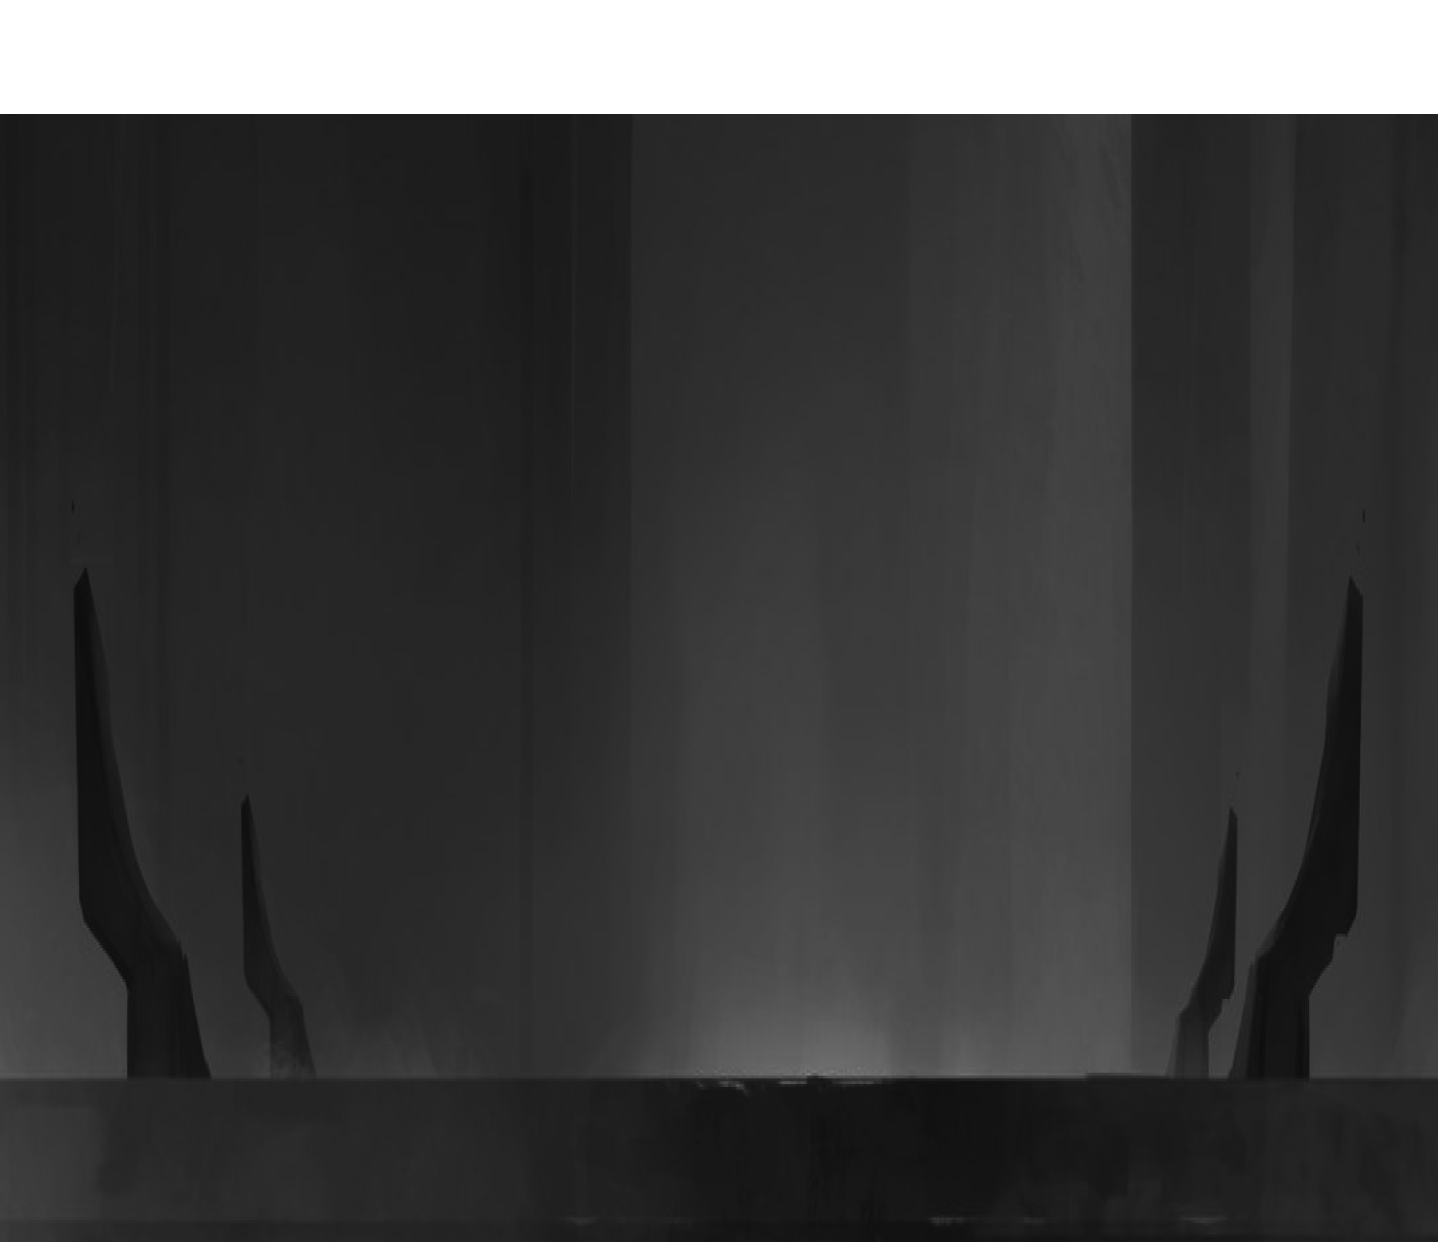
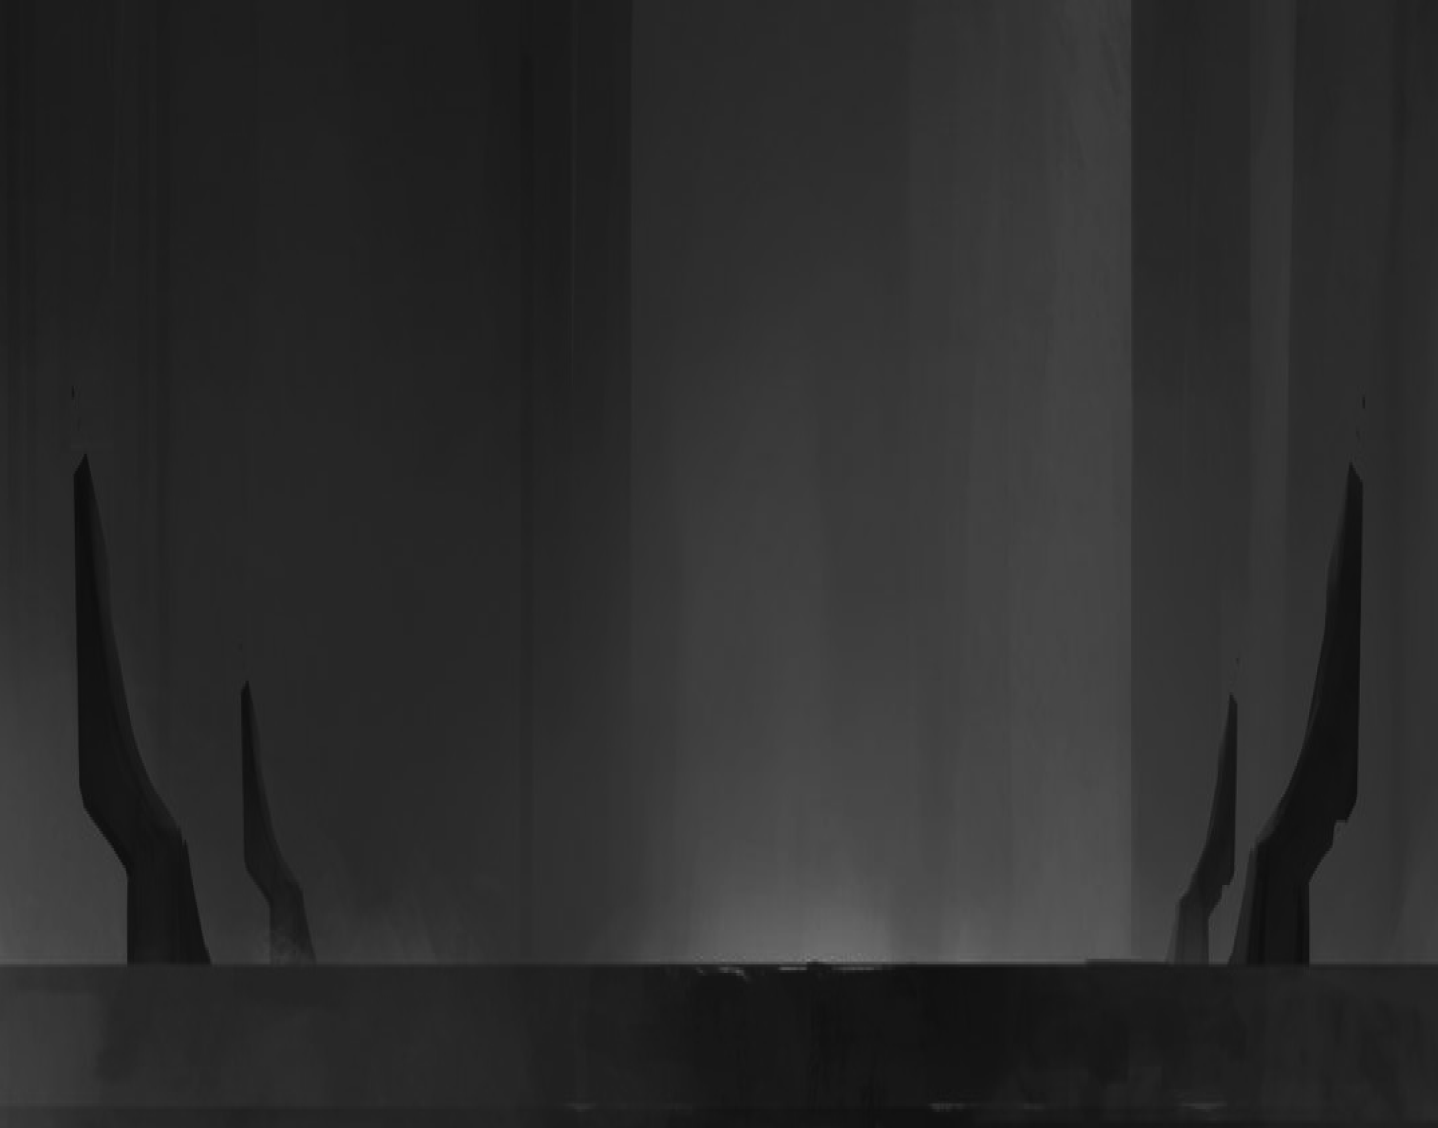
feat(team): team bg bug fixed & card type edited

diff --git a/src/components/teamPage/Team.tsx b/src/components/teamPage/Team.tsx
@@ -3,9 +3,14 @@ import Image from "next/image";
 const Team:React.FC = () => {
 
     return(
-        <div className="w-full h-full relative">
-            <Image className="" src={'/media/team/team-bg.png'} width="1438" height="1242" layout="responsive" />
-            <div className="relative w-full h-full  flex flex-col justify-start items-center">
+        <div className="w-screen h-full relative">
+            <div className="w-full h-full absolute top-0 left-0">
+            <Image  src={'/media/team/team-bg.png'} width="1438" height="1128" layout="responsive" />
+            </div>
+            <div className="relative w-full h-full  flex flex-col justify-start items-center pt-44">
+                <h3>
+                Meet the Creators
+                </h3>
             </div>
         </div>
     )

diff --git a/src/components/global/Card/index.tsx b/src/components/global/Card/index.tsx
@@ -1,14 +1,15 @@
-import { teamType } from "../../../types/allTypes";
+import Image from "next/image";
+import { globCardType } from "../../../types/allTypes";
 
 interface props {
-    data:teamType;
+    data:globCardType;
 }
 const Card:React.FC<props> = ({data}) => {
 
     return(
         <div className="h-[492px] w-80 flex flex-col justify-center items-center text-white">
-            <img className="w-full object-contain" src={data.image} loading="lazy" />
-            <p className="text-4xl text-primary-500">{data.name}</p>
+            <Image width={320} height={492}  src={data.image} loading="lazy" />
+            {data.name && <p className="text-4xl text-primary-500">{data.name}</p>}
             {data.role && <p className="text-2xl">{data.role}</p>}
         </div>
     );

diff --git a/src/components/layout/Layout.tsx b/src/components/layout/Layout.tsx
@@ -11,9 +11,9 @@ const Layout: React.FC = (props) => {
       id="__layout"
       className="w-full h-full  flex flex-col justify-between items-start overflow-hidden"
     >
-      {!gameBoardCondition && !underConstructionCondition && <Header />}
+      {/* {!gameBoardCondition && !underConstructionCondition && <Header />} */}
       <Main>{props.children}</Main>
-      {!gameBoardCondition && !underConstructionCondition && <Footer />}
+      {/* {!gameBoardCondition && !underConstructionCondition && <Footer />} */}
     </div>
   );
 };

diff --git a/src/types/allTypes.ts b/src/types/allTypes.ts
@@ -6,10 +6,10 @@ export interface faqType {
   answer: string;
 }
 
-export interface teamType {
-  name: string;
-  role?: string;
+export interface globCardType {
   image: string;
+  name?: string;
+  role?: string;
 }
 
 export interface socialType {
